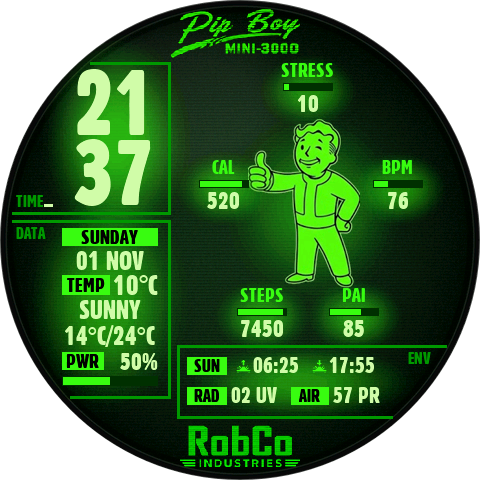
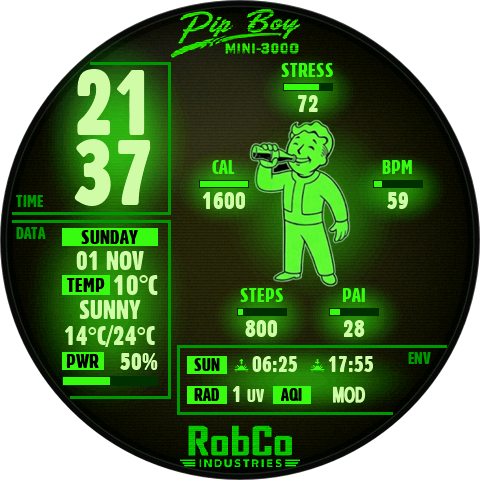
[FEAT]: final version of the watchface for now #3

diff --git a/watchface/index.js b/watchface/index.js
@@ -4,6 +4,9 @@ import { Time, Battery, Step, HeartRate, Stress, Sleep, Pai, Calorie, FatBurning
 const ROOT_IMAGES_PATH = 'images/'
 const PIPBOY_FONT = 'fonts/gothic821.ttf'
 
+// Screenshot Mode: If true, the watchface will always render a fixed time/date for store screenshots
+const IS_STORE_SCREENSHOT_MODE = false
+
 // Color Palette
 const GLOW_AMBIENT_IMG = `${ROOT_IMAGES_PATH}bg/glow_ambient.png`
 const FRAME_COLOR = 0x009900      // CRT structural outlines and labels
@@ -626,7 +629,7 @@ WatchFace({
     const ENV_X = 177
     const ENV_Y = 345
     const ENV_W = 216          // Inner data box width (x: 180 -> x: 396)
-    const ENV_H = 74           // Runs y: 340 -> y: 414
+    const ENV_H = 70           // Runs y: 340 -> y: 414
     const ENV_WALL_R = ENV_X + ENV_W - 3 // Right vertical wall at x: 393
 
     // Ambient glow behind ENV container
@@ -689,9 +692,9 @@ WatchFace({
     // -------------------------------------------------------------------------
     // ROW 1: [SUN] + sun_rise.png + Time + sun_set.png + Time
     // -------------------------------------------------------------------------
-    const ROW1_Y = ENV_Y + 12
+    const ROW1_Y = ENV_Y + 11
 
-    // 'SUN' Badge
+    // 'SUN' Badge (x: +10, w: 40)
     createWidget(widget.FILL_RECT, {
       x: ENV_X + 10,
       y: ROW1_Y,
@@ -715,9 +718,9 @@ WatchFace({
       show_level: show_level.ONLY_NORMAL
     })
 
-    // Sunrise Icon (sun_rise.png)
+    // Sunrise Icon & Time
     createWidget(widget.IMG, {
-      x: ENV_X + 58,
+      x: ENV_X + 56,
       y: ROW1_Y + 1,
       w: 16,
       h: 16,
@@ -727,9 +730,9 @@ WatchFace({
     })
 
     const sunriseTextWidget = createWidget(widget.TEXT, {
-      x: ENV_X + 76,
+      x: ENV_X + 75,
       y: ROW1_Y - 2,
-      w: 54,
+      w: 52,
       h: 22,
       color: GLOW_CORE_COLOR,
       text_size: 22,
@@ -740,9 +743,9 @@ WatchFace({
       show_level: show_level.ONLY_NORMAL
     })
 
-    // Sunset Icon (sun_set.png)
+    // Sunset Icon & Time
     createWidget(widget.IMG, {
-      x: ENV_X + 134,
+      x: ENV_X + 132,
       y: ROW1_Y + 1,
       w: 16,
       h: 16,
@@ -752,9 +755,9 @@ WatchFace({
     })
 
     const sunsetTextWidget = createWidget(widget.TEXT, {
-      x: ENV_X + 152,
+      x: ENV_X + 151,
       y: ROW1_Y - 2,
-      w: 54,
+      w: 52,
       h: 22,
       color: GLOW_CORE_COLOR,
       text_size: 22,
@@ -766,11 +769,11 @@ WatchFace({
     })
 
     // -------------------------------------------------------------------------
-    // ROW 2: [RAD] 02 UV   +   [AIR] 24 OK
+    // ROW 2: [RAD] 1 UV   +   [AQI] (Moved Left!) + Value/Status
     // -------------------------------------------------------------------------
-    const ROW2_Y = ENV_Y + 42
+    const ROW2_Y = ENV_Y + 41
 
-    // 'RAD' Badge
+    // 'RAD' Badge (Aligned vertically with 'SUN' at x: +10, w: 40)
     createWidget(widget.FILL_RECT, {
       x: ENV_X + 10,
       y: ROW2_Y,
@@ -794,23 +797,41 @@ WatchFace({
       show_level: show_level.ONLY_NORMAL
     })
 
-    const radTextWidget = createWidget(widget.TEXT, {
-      x: ENV_X + 54,
+    // Live UV Number (x: +55, aligned with Sunrise icon above)
+    const radTextWidget = createWidget(widget.TEXT_FONT, {
+      x: ENV_X + 55,
       y: ROW2_Y - 2,
-      w: 56,
+      w: 22,
       h: 22,
       color: GLOW_CORE_COLOR,
       text_size: 22,
       align_h: align.LEFT,
       align_v: align.CENTER_V,
       font: PIPBOY_FONT,
-      text: '-- UV',
+      type: data_type.UVI,
+      unit_type: 0,
+      invalid_text: '--',
       show_level: show_level.ONLY_NORMAL
     })
 
-    // 'AIR' Badge
+    // 'UV' Unit Label (Pulled left to x: +70 so "1 UV" sits tightly together!)
+    createWidget(widget.TEXT, {
+      x: ENV_X + 70,
+      y: ROW2_Y,
+      w: 22,
+      h: 18,
+      color: GLOW_CORE_COLOR,
+      text_size: 18,
+      align_h: align.LEFT,
+      align_v: align.CENTER_V,
+      font: PIPBOY_FONT,
+      text: 'UV',
+      show_level: show_level.ONLY_NORMAL
+    })
+
+    // 'AQI' Badge (Moved 18px LEFT to x: +96, w: 38 -> leaves 70px on the right!)
     createWidget(widget.FILL_RECT, {
-      x: ENV_X + 114,
+      x: ENV_X + 96,
       y: ROW2_Y,
       w: 38,
       h: 18,
@@ -819,7 +840,7 @@ WatchFace({
     })
 
     createWidget(widget.TEXT, {
-      x: ENV_X + 114,
+      x: ENV_X + 96,
       y: ROW2_Y - 1,
       w: 38,
       h: 18,
@@ -828,21 +849,32 @@ WatchFace({
       align_h: align.CENTER_H,
       align_v: align.CENTER_V,
       font: PIPBOY_FONT,
-      text: 'AIR',
+      text: 'AQI',
       show_level: show_level.ONLY_NORMAL
     })
 
-    const airTextWidget = createWidget(widget.TEXT, {
-      x: ENV_X + 156,
-      y: ROW2_Y - 2,
-      w: 52,
-      h: 22,
-      color: GLOW_CORE_COLOR,
-      text_size: 22,
+    // Dynamic AQI Status Image via IMG_LEVEL (With Index 0 Fallback & auto_scale)
+    createWidget(widget.TEXT_IMG, {
+      x: ENV_X + 140,
+      y: ROW2_Y - 3,
+      w: 64,
+      h: 20,
+      font_array: [
+        `${ROOT_IMAGES_PATH}aqi/aqi_0.png`, // 0 -> '--'
+        `${ROOT_IMAGES_PATH}aqi/aqi_1.png`, // 1 GOOD
+        `${ROOT_IMAGES_PATH}aqi/aqi_2.png`, // 2 FAIR
+        `${ROOT_IMAGES_PATH}aqi/aqi_3.png`, // 3 MOD
+        `${ROOT_IMAGES_PATH}aqi/aqi_4.png`, // 4 POOR
+        `${ROOT_IMAGES_PATH}aqi/aqi_5.png`, // 5 V.POOR
+        `${ROOT_IMAGES_PATH}aqi/aqi_6.png`, // 6 HAZARD
+        `${ROOT_IMAGES_PATH}aqi/aqi_0.png`, // 7-9 padding, the array needs 10 entries
+        `${ROOT_IMAGES_PATH}aqi/aqi_0.png`,
+        `${ROOT_IMAGES_PATH}aqi/aqi_0.png`
+      ],
+      // text: 3,
+      h_space: 0,
       align_h: align.LEFT,
-      align_v: align.CENTER_V,
-      font: PIPBOY_FONT,
-      text: '--',
+      type: data_type.AQI,
       show_level: show_level.ONLY_NORMAL
     })
 
@@ -900,6 +932,15 @@ WatchFace({
       show_level: show_level.ONLY_NORMAL
     })
 
+    // UV click
+    createWidget(widget.IMG_CLICK, {
+      x: ENV_X,
+      y: ENV_Y,
+      w: ENV_W,
+      h: ENV_H,
+      type: data_type.UVI,
+      show_level: show_level.ONLY_NORMAL
+    })
 
     // =========================================================================
     // ALWAYS-ON DISPLAY (AOD) WIDGETS (Pure black background, low-power green)
@@ -934,7 +975,6 @@ WatchFace({
       show_level: show_level.ONAL_AOD
     })
 
-
     // =========================================================================
     // STATE & TELEMETRY CACHES (For Efficient Updates)
     // =========================================================================
@@ -962,10 +1002,10 @@ WatchFace({
     let lastPaiChunk = -1
 
     const updateTelemetry = () => {
-      let battery = 100
+      let battery = 0
       let steps = 0
       let calories = 0
-      let heartRate = 70
+      let heartRate = 0
       let stress = 0
       let pai = 0
       let sleepScore = 0
@@ -1013,10 +1053,9 @@ WatchFace({
       try {
         const wData = weatherSensor?.getForecast?.()
         const today = wData?.forecastData?.data?.[0]
-        
-        // --- Sunrise & Sunset Telemetry ---
-        const tideToday = weatherSensor?.getForecast?.()?.tideData?.data?.[0]
+        const tideToday = wData?.tideData?.data?.[0]
 
+        // --- Sunrise & Sunset Telemetry ---
         if (tideToday?.sunrise && tideToday?.sunset) {
           sunriseTextWidget.setProperty(prop.MORE, {
             text: `${pad(tideToday.sunrise.hour)}:${pad(tideToday.sunrise.minute)}`
@@ -1026,17 +1065,7 @@ WatchFace({
           })
         }
 
-        // --- RAD (UV Index) & AIR (AQI) Telemetry ---
-        const uvVal = today?.uvIndex ?? wData?.uvIndex
-        const aqiVal = today?.aqi ?? wData?.aqi
-
-        radTextWidget.setProperty(prop.MORE, {
-          text: uvVal !== undefined ? `${pad(uvVal)} UV` : '02 UV'
-        })
-        airTextWidget.setProperty(prop.MORE, {
-          text: aqiVal !== undefined ? `${aqiVal} OK` : '24 OK'
-        })
-
+        // --- Temperature & Condition Telemetry ---
         if (today) {
           const hasHighLow = typeof today.high === 'number' && typeof today.low === 'number'
           const tempVal = today.cur ?? wData?.cur ?? (hasHighLow ? Math.round((today.high + today.low) / 2) : today.high)
@@ -1059,22 +1088,39 @@ WatchFace({
       // =========================================================================
       // [SCREENSHOT OVERRIDE: TELEMETRY & WEATHER] - Active for store preview!
       // =========================================================================
-      // steps = 7450            // Triggers > 8000 running pose
-      // calories = 520         // Triggers > 1500 Nuka-Cola pose (Pose 9)
-      // heartRate = 60          // Realistic resting BPM
+      // steps = 8001            // Triggers > 8000 running pose
+      // calories = 1600         // Triggers > 1500 Nuka-Cola pose (Pose 9)
+      // heartRate = 120          // Realistic resting BPM
       // stress = 10             // Normal stress level
       // pai = 85                // Active PAI score
       // battery = 85            // 85% PWR bar
-      // exerciseMins = 10       // Exercise mins
+      // exerciseMins = 150       // Exercise mins
       // sleepScore = 88         // Sleep score
-      // // Force mock weather display values for clean store preview:
-      // weatherTempWidget.setProperty(prop.MORE, { text: '10°C' })
-      // weatherCondWidget.setProperty(prop.MORE, { text: 'SUNNY' })
-      // weatherRangeWidget.setProperty(prop.MORE, { text: '14°C/24°C' })
-      // sunriseTextWidget.setProperty(prop.MORE, { text: '06:25' })
-      // sunsetTextWidget.setProperty(prop.MORE, { text: '17:55' })
-      // radTextWidget.setProperty(prop.MORE, { text: '02 UV' })
-      // airTextWidget.setProperty(prop.MORE, { text: '57 PR' })
+
+      if (IS_STORE_SCREENSHOT_MODE) {
+        // Safe mock injections for store screenshot preview using proper helper methods
+        calGauge.setText('160')
+        calGauge.setRatio(160 / 1200)
+
+        bpmGauge.setText('120')
+        bpmGauge.setRatio((120 - 40) / 120)
+
+        stepsGauge.setText('800')
+        stepsGauge.setRatio(800 / 8000)
+
+        paiGauge.setText('28')
+        paiGauge.setRatio(28 / 130)
+
+        stressGauge.setText('72')
+        stressGauge.setRatio(72 / 100)
+
+        // Weather and other standard text widgets:
+        weatherTempWidget.setProperty(prop.MORE, { text: '10°C' })
+        weatherCondWidget.setProperty(prop.MORE, { text: 'SUNNY' })
+        weatherRangeWidget.setProperty(prop.MORE, { text: '14°C/24°C' })
+        sunriseTextWidget.setProperty(prop.MORE, { text: '06:25' })
+        sunsetTextWidget.setProperty(prop.MORE, { text: '17:55' })
+      }
 
       // 1. Left Leg: STEPS (0 - 8000, bar chunked every 100 steps)
       if (steps !== lastStepCount) {
@@ -1174,8 +1220,8 @@ WatchFace({
       // =========================================================================
       // [SCREENSHOT OVERRIDE: TIME & DATE] - Locked to 10:09 for store!
       // =========================================================================
-      // let hours = '10'
-      // let mins = '09'
+      // let hours = '21'
+      // let mins = '37'
       // let dayName = 'SUNDAY'
       // let dateStr = '01 NOV'
 
